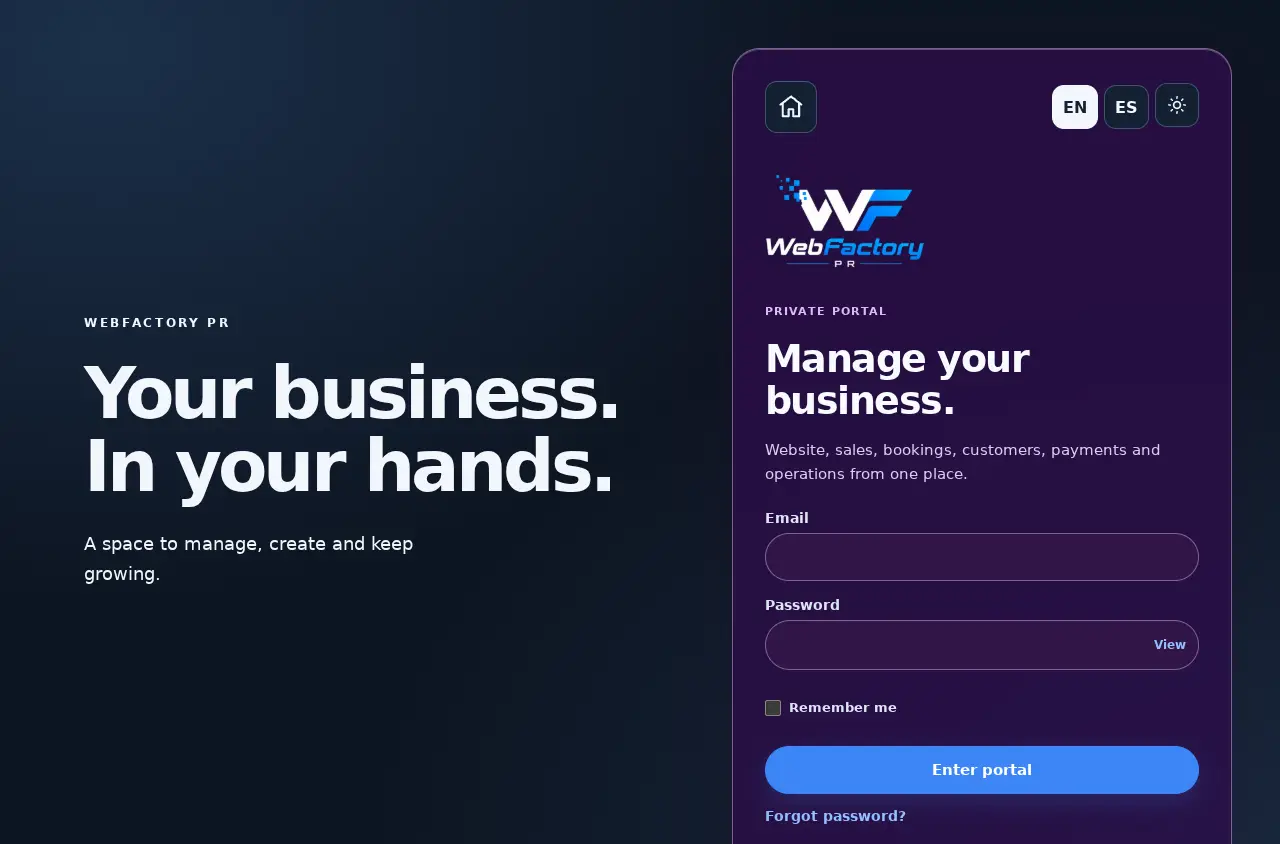
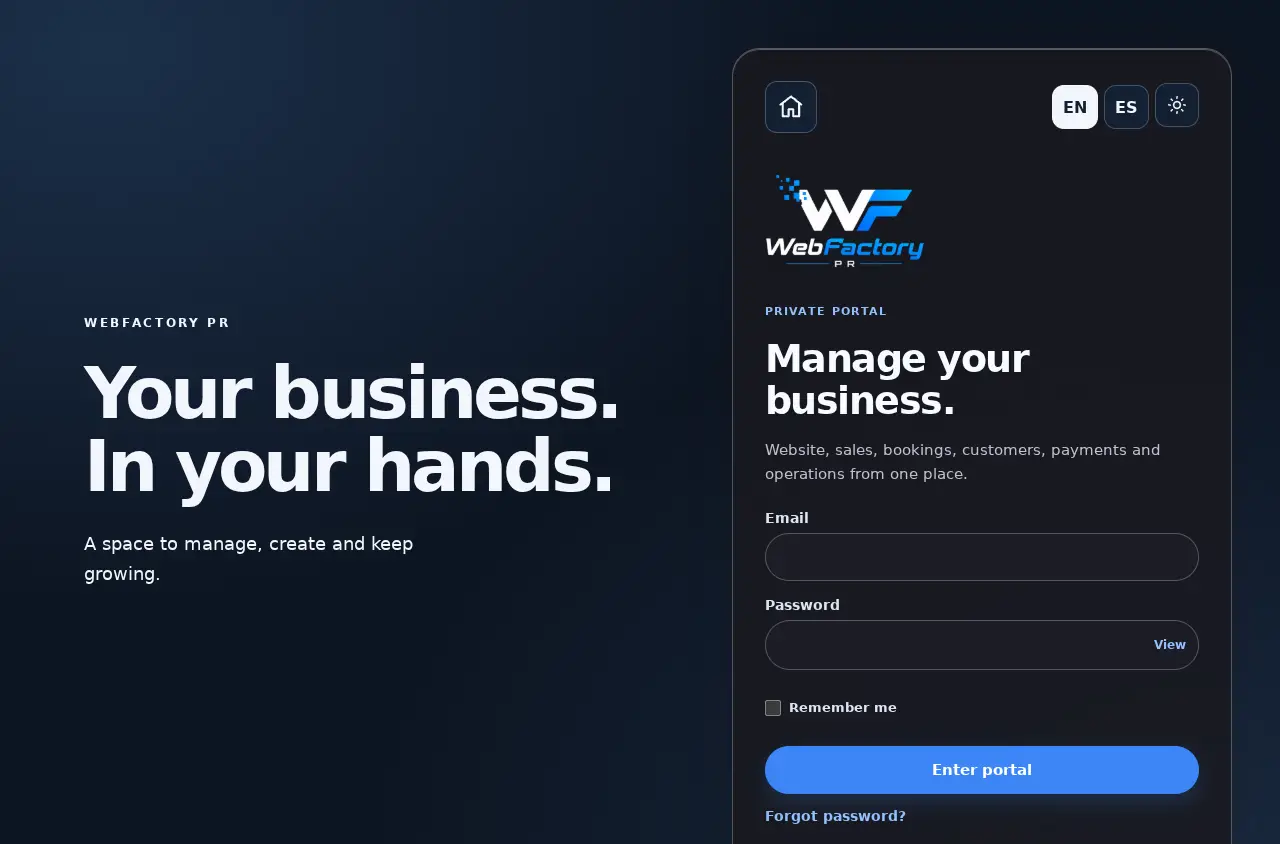
fix: match Glassy login surface tones to both dashboards

diff --git a/src/portal-glass.css b/src/portal-glass.css
@@ -102,11 +102,11 @@ html body :is(.ca-login,.wfa-login) .portal-language .portal-return-home{margin:
 /* Owner-supplied Glassy surfaces retain the approved pre-Glassy page backgrounds.
    Keep geometry, scrolling, authentication controls and operational layouts intact. */
 html body #root :is(.ca-page:has(>.ca-login),.wfa-login-page:has(>.wfa-login)){
- --pg-canvas:#291638;--pg-surface:rgba(255,248,255,.9);--pg-solid:#fff9ff;--pg-soft:#f2e8f7;--pg-text:#291b39;--pg-muted:#64546f;--pg-line:#baa8c8;--pg-accent:#6c32a4;
+ --pg-canvas:#eef0f3;--pg-surface:rgba(255,255,255,.91);--pg-solid:#fff;--pg-soft:#eef0f4;--pg-text:#18202c;--pg-muted:#536072;--pg-line:#c2c7d0;--pg-accent:#2867b2;
  background:radial-gradient(ellipse at 8% 5%,#dce7f5 0,transparent 45%),radial-gradient(ellipse at 95% 95%,#e0e8f0 0,transparent 50%),#edf2f7!important;
 }
-html[data-wf-theme=dark] body #root :is(.ca-page:has(>.ca-login),.wfa-login-page:has(>.wfa-login)){--pg-surface:rgba(45,12,70,.78);--pg-solid:#311548;--pg-soft:#48225f;--pg-text:#faf4ff;--pg-muted:#dccbe9;--pg-line:#80628e;--pg-accent:#e4b5ff;background:radial-gradient(ellipse at 8% 5%,#1b304a 0,transparent 45%),radial-gradient(ellipse at 95% 95%,#19293e 0,transparent 50%),#0d1522!important}
-html body #root :is(.ca-page:has(>.ca-login),.wfa-login-page:has(>.wfa-login))>:is(.ca-login,.wfa-login){background:var(--pg-surface)!important;border-color:var(--pg-line)!important;backdrop-filter:blur(28px) saturate(150%);-webkit-backdrop-filter:blur(28px) saturate(150%);box-shadow:inset 0 1px 0 #ffffff45,0 28px 75px #1f062747!important;border-radius:28px}
+html[data-wf-theme=dark] body #root :is(.ca-page:has(>.ca-login),.wfa-login-page:has(>.wfa-login)){--pg-surface:rgba(24,24,30,.9);--pg-solid:#1c1c24;--pg-soft:#25252e;--pg-text:#f7f7fa;--pg-muted:#bfc0cd;--pg-line:#555560;--pg-accent:#91bfff;background:radial-gradient(ellipse at 8% 5%,#1b304a 0,transparent 45%),radial-gradient(ellipse at 95% 95%,#19293e 0,transparent 50%),#0d1522!important}
+html body #root :is(.ca-page:has(>.ca-login),.wfa-login-page:has(>.wfa-login))>:is(.ca-login,.wfa-login){background:var(--pg-surface)!important;border-color:var(--pg-line)!important;backdrop-filter:blur(28px) saturate(150%);-webkit-backdrop-filter:blur(28px) saturate(150%);box-shadow:inset 0 1px 0 #ffffff45,0 28px 75px #08081030!important;border-radius:28px}
 html body #root :is(.ca-login,.wfa-login) :is(input:not([type=checkbox]),.portal-password-field){border-radius:999px!important;background:var(--pg-solid)!important;border-color:var(--pg-line)!important;color:var(--pg-text)!important}
 html body #root :is(.ca-login,.wfa-login) .portal-password-field input{border:0!important;background:transparent!important}
 html body #root :is(.ca-login,.wfa-login) form>button{background:#3c86f6!important;color:#fff!important;border:1px solid #3c86f6!important;border-radius:999px!important;box-shadow:0 8px 22px #3c86f630}
